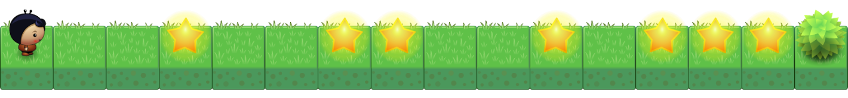
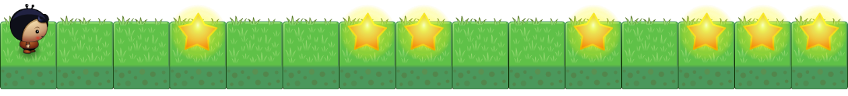
Finishing up part 4

diff --git a/collections/library/hello-dart-de-part4.md b/collections/library/hello-dart-de-part4.md
@@ -245,7 +245,7 @@ Zur Berechnung können folgende arithmetische Operatoren verwendet werden:
 
 ![Sternenspur](/assets/library/hello-dart/part4/counting-stars.png)
 
-Der Spieler soll von links nach rechts gehen bis zum Baum und dabei die Sterne zählen.
+Der Spieler soll von links nach rechts gehen und dabei die Sterne zählen.
 
 *Hinweise:*
 
@@ -263,84 +263,49 @@ Der Spieler soll von links nach rechts gehen bis zum Baum und dabei die Sterne z
 </div>
 
 
-#### <i class="fa fa-rocket mg-t"></i> AUFGABE 4.02: Invert
+#### <i class="fa fa-rocket mg-t"></i> AUFGABE 4.02: Cleaning Up
 
-![Sternenspur](/assets/library/hello-dart/part4/invert.jpg)
+![Aufräumen](/assets/library/hello-dart/part4/cleaning-up.png)
 
-Eine quadratische Fläche ist von Bäumen umrandet. Innerhalb der Fläche ist ein Muster aus Kleeblättern gelegt, das von Kara invertiert (= umgedreht) werden soll. Kara startet links oben in der Ecke mit Blick nach rechts.
+Der Spieler soll alle Sterne wegräumen.
 
 *Hinweise:*
 
-* Bei dieser Aufgabe ist es hilfreich, mit booleschen Variablen zu arbeiten, z.B.:
-  * Deklaration und Initilalisierung: `boolean goingRight = false;`
-  * Aus true wird false und umgekehrt: `goingRight = !goingRight;`
-  * Boolesche Variable als Bedingung: `if (goingRight)`
+1. Sie können den Baum verwenden, um herauszufinden, wann der Spiele am Ende angekommen ist mit einer Schleife `while (!treeFront()) {...}`.
+2. Entfernen Sie zuerst die Sterne auf der ersten Zeile.
+3. Drehen Sie am Rand und entfernen Sie die die Sterne auf der zweiten Zeile.
+4. Führen Sie nun eine `bool`-Variable ein, damit sich der Spieler merkt, in welche Richtung er läuft, zum Beispiel so:   
+`bool goingRight = true;`
+5. Mit dieser Variable können Sie nun herausfinden, ob der Spieler am rechten oder am linken Rand angekommen ist und entsprechend umdrehen muss. Ein `bool` kann wie folgt in einer Bedingung verwendet werden:   
+`if (goingRight) {...}`
+6. Denken Sie daran, die neue Richtung in die Variable zu setzen, sobald sich der Spieler dreht:   
+`goingRight = false;`
+7. *Verbesserung*: Damit der Code übersichtlicher wird, sollen Sie zwei Funktionen machen zum Umdrehen: `turnAroundRight()` und `turnAroundLeft()`.
 
 
+#### <i class="fa fa-rocket mg-t"></i> AUFGABE 4.03: Inverting
 
-#### <i class="fa fa-rocket"></i> TASK 3.03: Kara in a Box II
+![Sternenspur](/assets/library/hello-dart/part4/inverting.png)
 
-![TASK 3.03](/assets/library/greenfoot-kara/chapter3/task03.png) 
-
-Eine quadratische Fläche ist von Bäumen umrandet. Innerhalb der Fläche soll ein schachbrettartiges Muster aus Kleeblättern von Kara gelegt werden. Kara startet links oben in der Ecke mit Blick nach rechts.
-
+Die Welt hat eine quadratische Fläche und am Schluss einen Baum. Innerhalb der Fläche ist ein Muster aus Sternen gelegt, das vom Spieler invertiert (=umgedreht) werden soll. Achten Sie darauf, dass Ihr Code übersichtlich bleibt und lagern Sie allenfalls Teile in eigene Funktionen aus.
 
 
-#### <i class="fa fa-rocket"></i> TASK 3.04 (schwierig): Die längste Baumreihe
+#### <i class="fa fa-rocket mg-t"></i> AUFGABE 4.04: Chessboard
 
-![TASK 3.04](/assets/library/greenfoot-kara/chapter3/task04.png) 
+![Schachbrett](/assets/library/hello-dart/part4/chessboard.png)
 
-Auf der Wiese hat es verschiedene Baumreihen. Kara soll nun die Länge (in Anzahl Bäumen) der längsten Baumreihe ermitteln und auf die Konsole ausgeben. Zwischen d en Baumreihen ist immer mindestens ein Feld Platz. Auf dem letzten Feld liegt ein Kleeblatt.
-
-
-
-#### <i class="fa fa-rocket"></i> TASK 3.05 (sehr schwierig): Push Mushroom Through Tunnel
-
-![TASK 3.05](/assets/library/greenfoot-kara/chapter3/task05.png) 
-
-Die Welt von Kara hat zwei Boxen, welche durch einen Tunnel verbunden sind. In der Box links befindet sich Kara und ein Kleeblatt. In der Box rechts befindet sich ein Pilz. Kara soll nun auf die andere Seite gelangen, den Pilz finden und ihn auf die andere Seite schieben. Auf der anderen Seite angekommen soll der Pilz schliesslich auf das Kleeblatt geschoben werden.
-
-Sie können davon ausgehen, dass Kara immer oben links in der Ecke startet und das Kleeblatt sich unten links befindet. Der Pilz kann jedoch an einer beliebigen Stelle rechts vom Tunnel stehen.
-
-*Hints:*
-
-* Diese Aufgabe kann auch in Zusammenarbeit zu zweit gelöst werden. 
-* Dabei können die Teilprobleme untereinander aufgeteilt werden:
-  * Tunneleingang finden
-  * Pilz finden
-  * Pilz vor den Tunneleingang stossen
-  * Pilz auf das Kleeblatt stossen
+Die Welt hat eine quadratische Fläche und am Schluss einen Baum. Innerhalb der Fläche soll ein schachbrettartiges Muster aus Sternen gelegt werden.
 
 
+#### <i class="fa fa-rocket mg-t"></i> AUFGABE 4.04 (schwierig): Tree Line
 
-***
+![Baumreihe](/assets/library/hello-dart/part4/tree-line.jpg)
 
-## Vertiefung zu Variablen
-
-Wir hatten bereits einen ersten Kontakt zu Variablen. Nun noch ein paar zusätzliche Bemerkungen zu den verschiedenen Typen:
-
-
-### Elementare Datentypen
-
-![Elementare Datentypen](/assets/library/greenfoot-kara/chapter3/elementary-types.png) 
-
-Elementare Datentypen sind wie Becher (im Speicher), wo der Wert direkt in eine Variable gespeichert wird.
-
-
-### Referenztypen
-
-![Referenztypen](/assets/library/greenfoot-kara/chapter3/reference-types.png) 
-
-Der Wert in `k` ist eine Referenz auf das Kara-Objekt. Mit dem Punktoperator (`k.`) kann `k` wie eine Fernbedienung auf das Kara-Objekt benutzt werden! 
-
-
-***
-
-***Credits:*** *[Ideen und Konzepte von Kara](http://www.swisseduc.ch/informatik/karatojava/) wurden entwickelt von Jürg Nievergelt, Werner Hartmann, Raimond Reichert et al. Einige Kara-Übungen basieren auf [Unterlagen von Horst Gierhardt](http://www.swisseduc.ch/informatik/karatojava/javakara/material/).*
+Auf der Wiese hat es verschiedene Baumreihen. Der Spieler soll nun die Länge (in Anzahl Bäumen) der längsten Baumreihe ermitteln und ausgeben. Zwischen den Baumreihen ist immer mindestens ein Feld Platz. Auf dem letzten Feld liegt ein Stern.
 
 
 ***
 
 ## Wie weiter?
 
-Fahren Sie weiter mit [Kapitel 4: Sokoban Spiel](/library/greenfoot-kara/de/chapter4/)
+Fahren Sie weiter mit [Teil 5: Methoden](/library/hello-dart/de/part5/)

diff --git a/collections/library/hello-dart-de-part4-solutions.md b/collections/library/hello-dart-de-part4-solutions.md
@@ -57,7 +57,7 @@ class MyPlayer extends Player {
   start() {
     int count = 0;
 
-    while (!treeFront()) {
+    while (canMove()) {
       move();
 
       if (onStar()) {
@@ -66,6 +66,165 @@ class MyPlayer extends Player {
     }
 
     say('Ich habe ${count} Sterne gefunden.');
+  }
+}
+</pre>
+
+
+#### <i class="fa fa-check-square-o mg-t-lg"></i> LÖSUNG AUFGABE 4.02: Cleaning Up
+
+<pre class="prettyprint lang-dart">
+class MyPlayer extends Player {
+
+  start() {
+    bool goingRight = true;
+
+    while (!treeFront()) {
+      removeStar();
+
+      if (canMove()) {
+        move();
+      } else {
+        // Wir sind an einem Rand.
+        if (goingRight) {
+          // Wir sind am rechten Rand und drehen um.
+          turnAroundRight();
+          goingRight = false;
+        } else {
+          // Wir sind am linken Rand und drehen um.
+          turnAroundLeft();
+          goingRight = true;
+        }
+      }
+    }
+
+    // Entferne den letzten Stern.
+    removeStar();
+  }
+
+  /// Umdrehen am rechten Rand.
+  turnAroundRight() {
+    turnRight();
+    move();
+    turnRight();
+  }
+
+  /// Umdrehen am linken Rand.
+  turnAroundLeft() {
+    turnLeft();
+    move();
+    turnLeft();
+  }
+}
+</pre>
+
+
+#### <i class="fa fa-check-square-o mg-t-lg"></i> LÖSUNG AUFGABE 4.03: Inverting
+
+<pre class="prettyprint lang-dart">
+class MyPlayer extends Player {
+
+  start() {
+    bool goingRight = true;
+
+    while (!treeFront()) {
+      invertField();
+
+      if (canMove()) {
+        move();
+      } else {
+        // Wir sind an einem Rand.
+        if (goingRight) {
+          // Wir sind am rechten Rand und drehen um.
+          turnAroundRight();
+          goingRight = false;
+        } else {
+          // Wir sind am linken Rand und drehen um.
+          turnAroundLeft();
+          goingRight = true;
+        }
+      }
+    }
+
+    // Das letzte Feld invertieren.
+    invertField();
+  }
+
+  /// Umdrehen am rechten Rand.
+  turnAroundRight() {
+    turnRight();
+    move();
+    turnRight();
+  }
+
+  /// Umdrehen am linken Rand.
+  turnAroundLeft() {
+    turnLeft();
+    move();
+    turnLeft();
+  }
+
+  /// Ein einzelnes Feld invertieren.
+  invertField() {
+    if (onStar()) {
+      removeStar();
+    } else {
+      putStar();
+    }
+  }
+}
+</pre>
+
+
+#### <i class="fa fa-check-square-o mg-t-lg"></i> LÖSUNG AUFGABE 4.04: Tree Line
+
+<pre class="prettyprint lang-dart">
+class MyPlayer extends Player {
+
+  int longestRow = 0;
+
+  /// Your program.
+  start() {
+    while (!onStar()) {
+      if (treeFront()) {
+        countRow();
+      } else {
+        move();
+      }
+    }
+
+    say('Die längste Baumreihe ist ${longestRow} Bäume lang.');
+  }
+
+  /// Geht einer Baumreihe entlang und zählt die Bäume.
+  countRow() {
+    int currentRow = 0;
+
+    turnLeft();
+
+    while (treeRight())  {
+      // Den Zähler für die aktuelle Zeile um eins erhöhen.
+      currentRow++;
+      move();
+    }
+
+    // Gehe um die Baumreihe herum.
+    turnRight();
+    move();
+    move();
+    turnRight();
+
+    // Gehe zurück nach unten.
+    while (canMove()) {
+      move();
+    }
+
+    turnLeft();
+
+    // Teste, ob die aktuelle zeile länger ist als alle bisherigen.
+    if (currentRow > longestRow) {
+      longestRow = currentRow;
+    }
   }
 }
 </pre>
